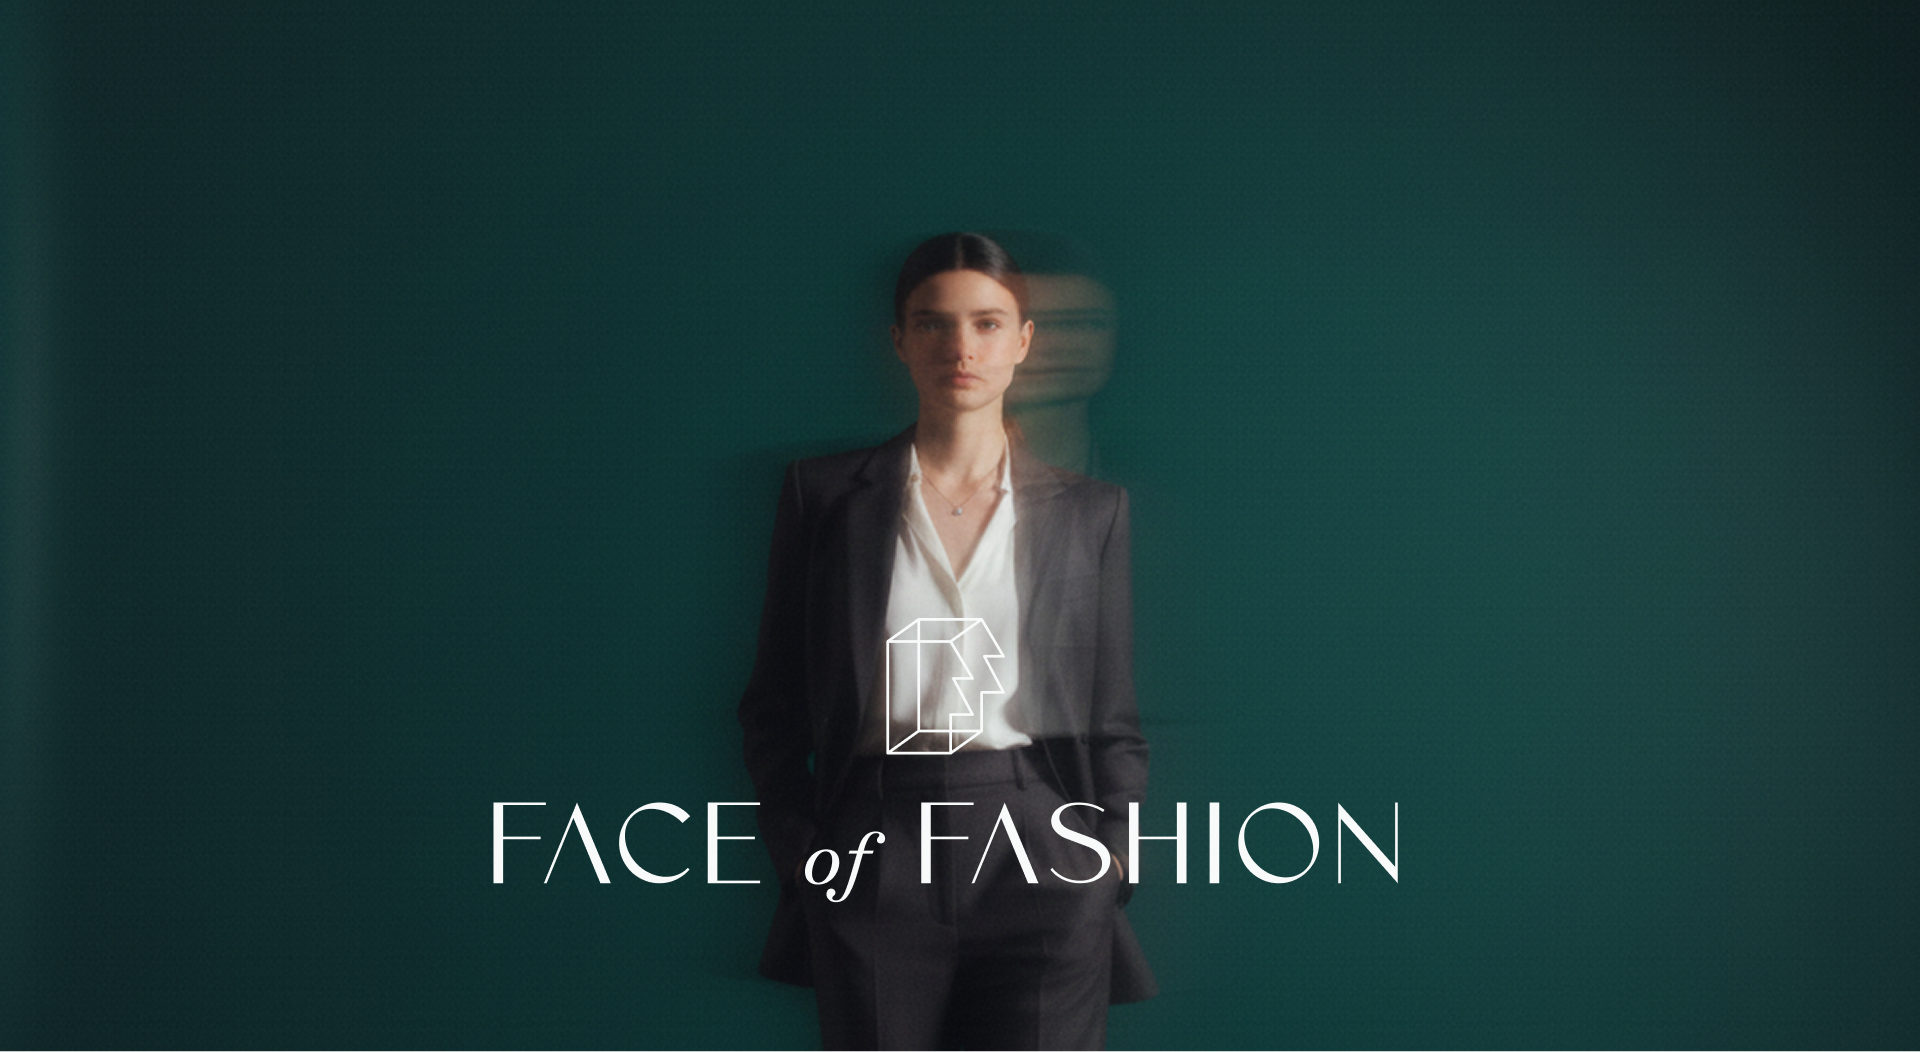
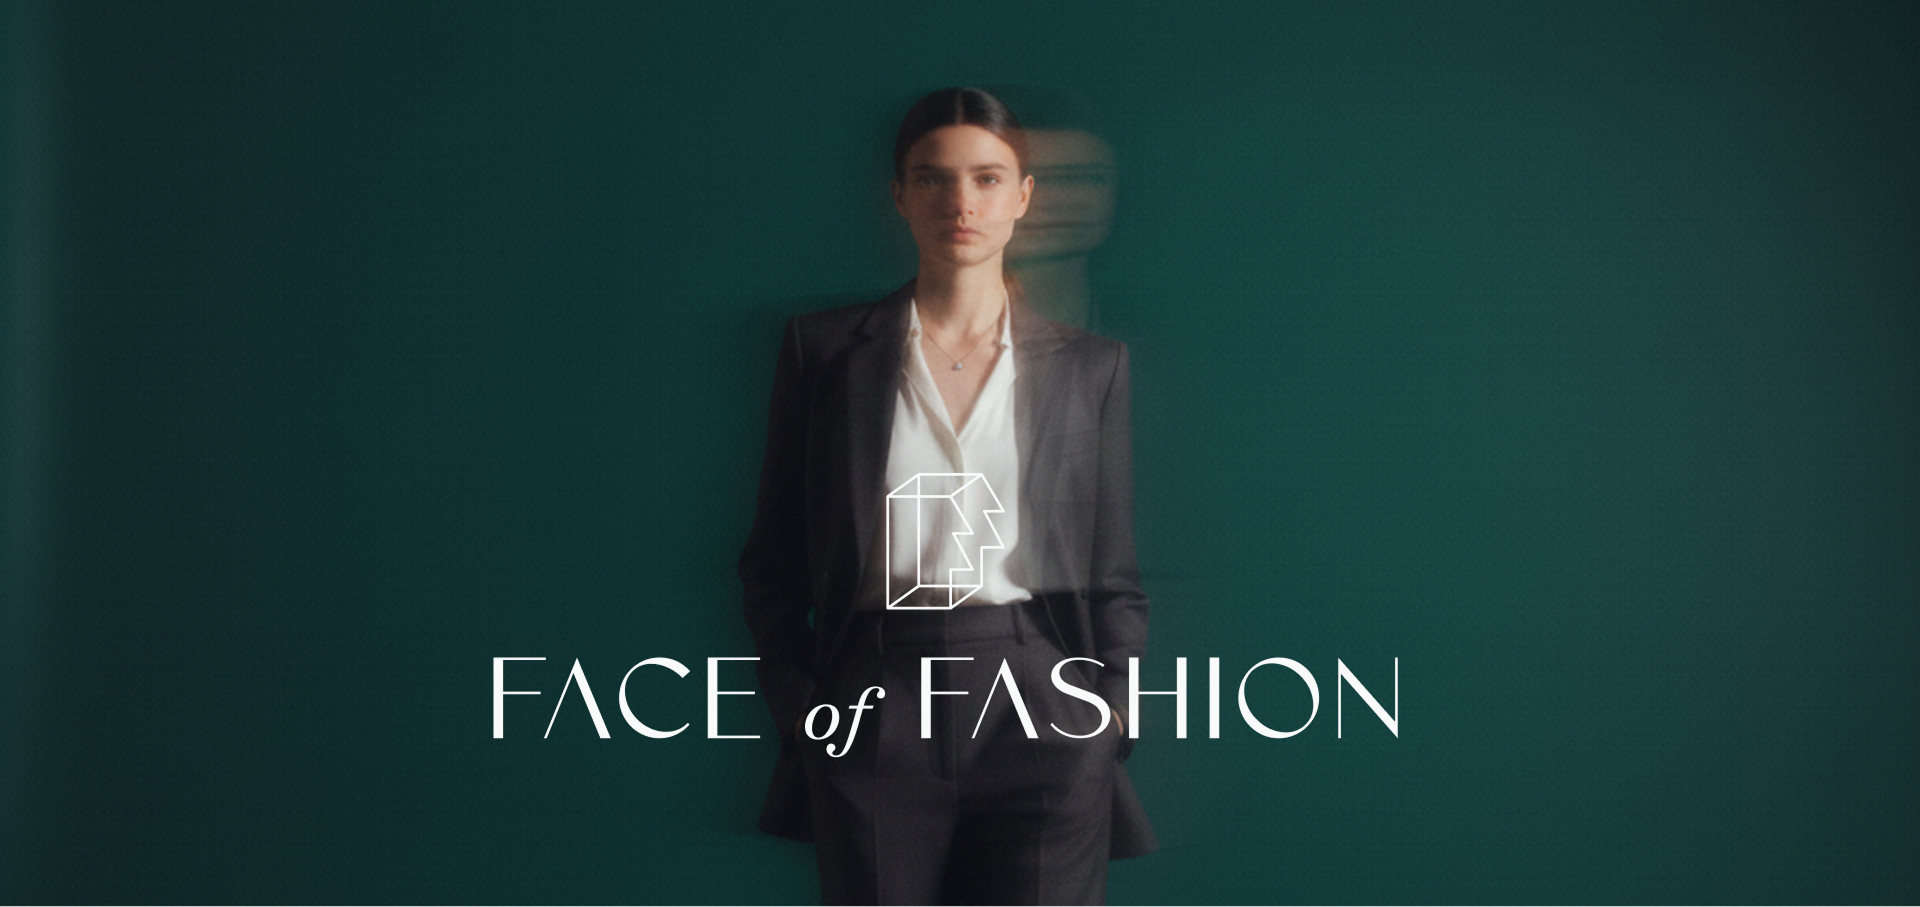
home page

Changed region(s): [[0.4062, 0.0926, 0.75, 0.8644], [0.25, 0.71, 0.375, 0.8335]]

diff --git a/src/components/blocks/landing/landing-hero.jsx b/src/components/blocks/landing/landing-hero.jsx
@@ -8,11 +8,11 @@ import { Heading } from "@/components/utils/typography";
 import parse from "html-react-parser";
 import { cn } from "@/lib/utils";
 
-export default function LandingHero({ data, variant }) {
+export default function LandingHero({ data, variant = "default" }) {
     return (
         <ParallaxProvider>
             <section className={cn("w-full min-h-[576px] sm:min-h-[576px] xl:min-h-[576px] 2xl:min-h-[768px] 3xl:min-h-[900px] overflow-hidden relative",
-                variant === "eventDetail" ? "h-auto" : "h-[576px] sm:h-[576px] xl:h-screen")}>
+                variant === "eventDetail" ? "h-auto" : "h-[576px] sm:h-[576px] xl:h-[100vh]")}>
                 <picture className="w-full h-full ">
                     <source
                         media="(max-width: 640px)"
@@ -21,10 +21,10 @@ export default function LandingHero({ data, variant }) {
                     <Image
                         src={data?.backgroundMedia?.url}
                         alt={data?.backgroundMedia?.alt || "Hero Background"}
-                        // fill
-                        // sizes="(max-width: 768px) 100vw, (max-width: 1200px) 50vw, 100vw"
-                        width={1920}
-                        height={1080}
+                        fill
+                        sizes="(max-width: 768px) 100vw, (max-width: 1200px) 50vw, 100vw"
+                        // width={1920}
+                        // height={1080}
                         className="object-cover object-bottom"
                         priority
                     />
